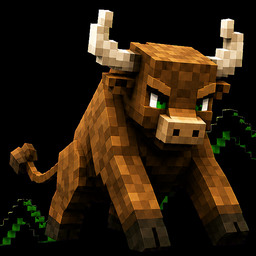
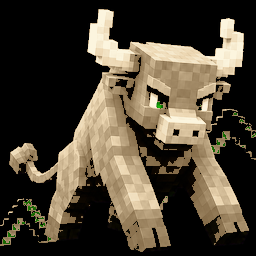
Recolor IQBulls mark: IQ green, horn-cream bull and Bulls
Sample horn ivory from the voxel bull and remap the brown body to that
cream family while keeping green eyes/arrow. Rebuild favicon and apple
icon from the cream mark, refresh the OG card (cream bull + green IQ /
cream Bulls vs white), and split the nav/About wordmark with brand CSS
tokens so tab chrome matches the logo palette.

diff --git a/src/components/AnimatedTitle.tsx b/src/components/AnimatedTitle.tsx
@@ -1,6 +1,6 @@
 "use client";
 
-import { useEffect, useState, type MouseEvent } from "react";
+import { useEffect, useState, type MouseEvent, type ReactNode } from "react";
 
 /** First-visit boot types the brand mark; settle drops the period cursor only. */
 const BOOT_BODY = "IQBulls";
@@ -8,6 +8,8 @@ const BOOT_FINAL = "IQBulls.";
 const SETTLED_TEXT = "IQBulls";
 const STORAGE_KEY = "iqbulls-title-revealed";
 const SOUND_PREF_KEY = "iqbulls-boot-sound";
+/** "IQ" stays green; "Bulls" (+ trailing boot chars) match horn cream. */
+const IQ_LEN = 2;
 
 function prefersReducedMotion(): boolean {
   if (typeof window === "undefined") return true;
@@ -47,6 +49,19 @@ function playBootTick(soundOn: boolean): void {
   } catch {
     // Audio is optional chrome — never block boot.
   }
+}
+
+/** IQ green + horn-cream Bulls — matches favicon / bull mark palette. */
+export function BrandWordmark({ text }: { text: string }): ReactNode {
+  if (!text) return null;
+  const iq = text.slice(0, Math.min(IQ_LEN, text.length));
+  const rest = text.slice(IQ_LEN);
+  return (
+    <>
+      {iq ? <span className="app-title-iq">{iq}</span> : null}
+      {rest ? <span className="app-title-bulls">{rest}</span> : null}
+    </>
+  );
 }
 
 export default function AnimatedTitle() {
@@ -132,7 +147,11 @@ export default function AnimatedTitle() {
   const showPeriodCursor = phase === "blink";
 
   if (phase === "settled") {
-    return <span className="app-title">{SETTLED_TEXT}</span>;
+    return (
+      <span className="app-title">
+        <BrandWordmark text={SETTLED_TEXT} />
+      </span>
+    );
   }
 
   return (
@@ -141,7 +160,9 @@ export default function AnimatedTitle() {
         className={`app-title typewriter${phase === "typing" ? " is-typing" : ""}`}
         aria-label={BOOT_FINAL}
       >
-        <span className="app-title-boot-body">{body}</span>
+        <span className="app-title-boot-body">
+          <BrandWordmark text={body} />
+        </span>
         {showPeriodCursor ? (
           <span className="typewriter-period" aria-hidden="true">
             .

diff --git a/tests/surface-scan-polish.test.ts b/tests/surface-scan-polish.test.ts
@@ -75,6 +75,9 @@ describe("surface scan polish", () => {
     expect(title).toContain('const BOOT_BODY = "IQBulls"');
     expect(title).toContain('const BOOT_FINAL = "IQBulls."');
     expect(title).toContain('const SETTLED_TEXT = "IQBulls"');
+    expect(title).toContain("BrandWordmark");
+    expect(title).toContain("app-title-iq");
+    expect(title).toContain("app-title-bulls");
     expect(title).toContain("prefersReducedMotion");
     expect(title).toContain("iqbulls-boot-sound");
     expect(title).toContain("typewriter-period");
@@ -89,6 +92,10 @@ describe("surface scan polish", () => {
     expect(title).not.toContain("IQBULLs");
     expect(css).toMatch(/\.app-title\s*\{[^}]*text-transform:\s*none/s);
     expect(css).not.toMatch(/\.app-title\s*\{[^}]*text-transform:\s*uppercase/s);
+    expect(css).toContain("--brand-iq:");
+    expect(css).toContain("--brand-horn:");
+    expect(css).toContain(".app-title-iq");
+    expect(css).toContain(".app-title-bulls");
     expect(css).toContain(".typewriter-period");
     expect(css).toContain(".boot-sound-toggle");
     expect(layout).toContain('src="/conviction-bull.png"');

diff --git a/src/app/globals.css b/src/app/globals.css
@@ -59,6 +59,10 @@
   --on-ink-red: #f0665e;
   --on-ink-amber: #f2b84b;
 
+  /* Brand wordmark: IQ green + horn cream (matches bull mark / favicon). */
+  --brand-iq: #3ddc97;
+  --brand-horn: #ecd6b1;
+
   /* Soft elevation for dark brokerage panels — inset rim + outer depth, no glow. */
   --shadow-sm:
     inset 0 1px 0 color-mix(in srgb, #ffffff 7%, transparent),
@@ -1386,9 +1390,17 @@ button.bottom-tab-item {
   font-weight: 700;
   letter-spacing: 0.04em;
   text-transform: none;
-  color: var(--ink);
+  color: var(--brand-horn);
   line-height: 1;
   padding-bottom: 2px;
+}
+
+.app-title-iq {
+  color: var(--brand-iq);
+}
+
+.app-title-bulls {
+  color: var(--brand-horn);
 }
 
 .app-title-boot {

diff --git a/src/app/about/page.tsx b/src/app/about/page.tsx
@@ -28,7 +28,10 @@ export default function AboutPage() {
           height={40}
         />
         <span className={styles.eyebrow}>About</span>
-        <h1>IQBulls</h1>
+        <h1>
+          <span className={styles.brandIq}>IQ</span>
+          <span className={styles.brandBulls}>Bulls</span>
+        </h1>
         <p>{PRODUCT_ABOUT_LEDE}</p>
         <p>{PRODUCT_ONE_LINER}</p>
       </header>

diff --git a/src/app/legal.module.css b/src/app/legal.module.css
@@ -39,9 +39,17 @@
 
 .hero h1 {
   margin: 0;
-  color: var(--ink);
+  color: var(--brand-horn);
   font-size: clamp(2rem, 7vw, 3.5rem);
   letter-spacing: -0.045em;
+}
+
+.brandIq {
+  color: var(--brand-iq);
+}
+
+.brandBulls {
+  color: var(--brand-horn);
 }
 
 .hero p,
